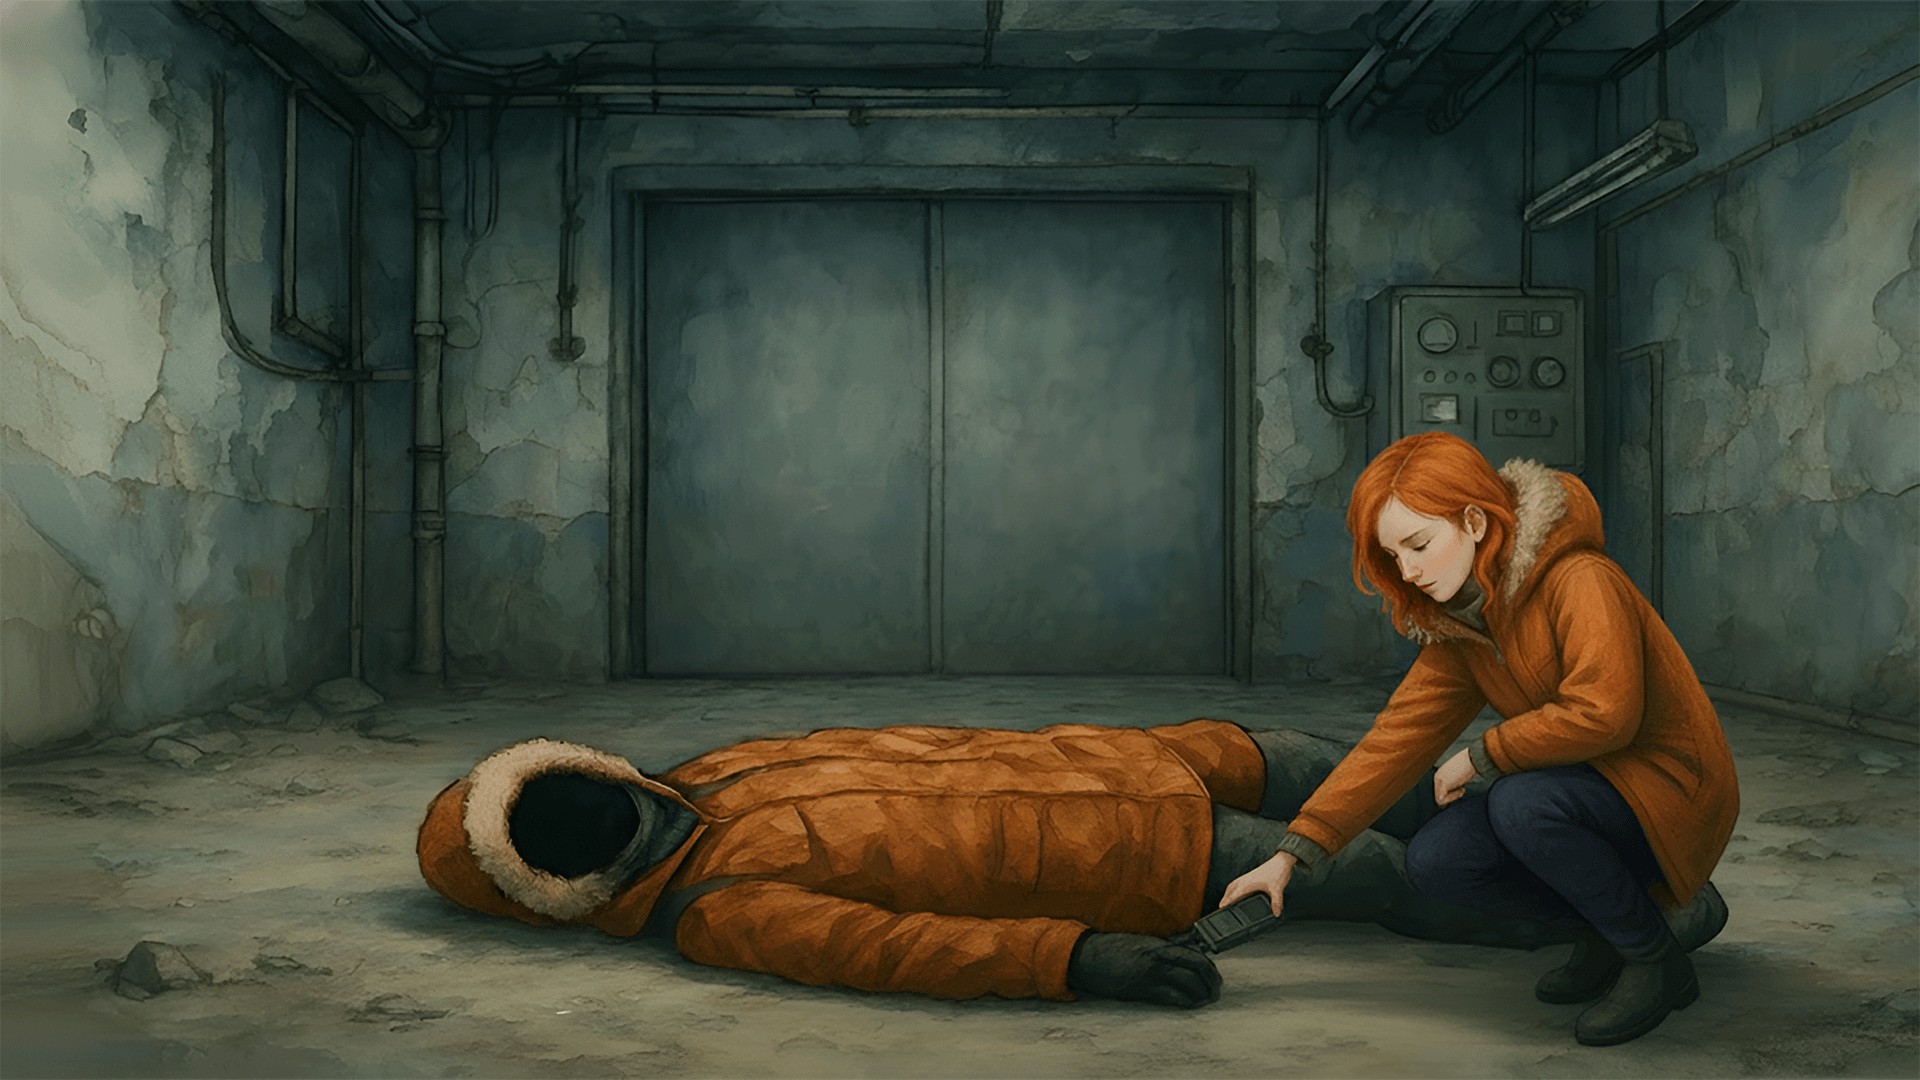
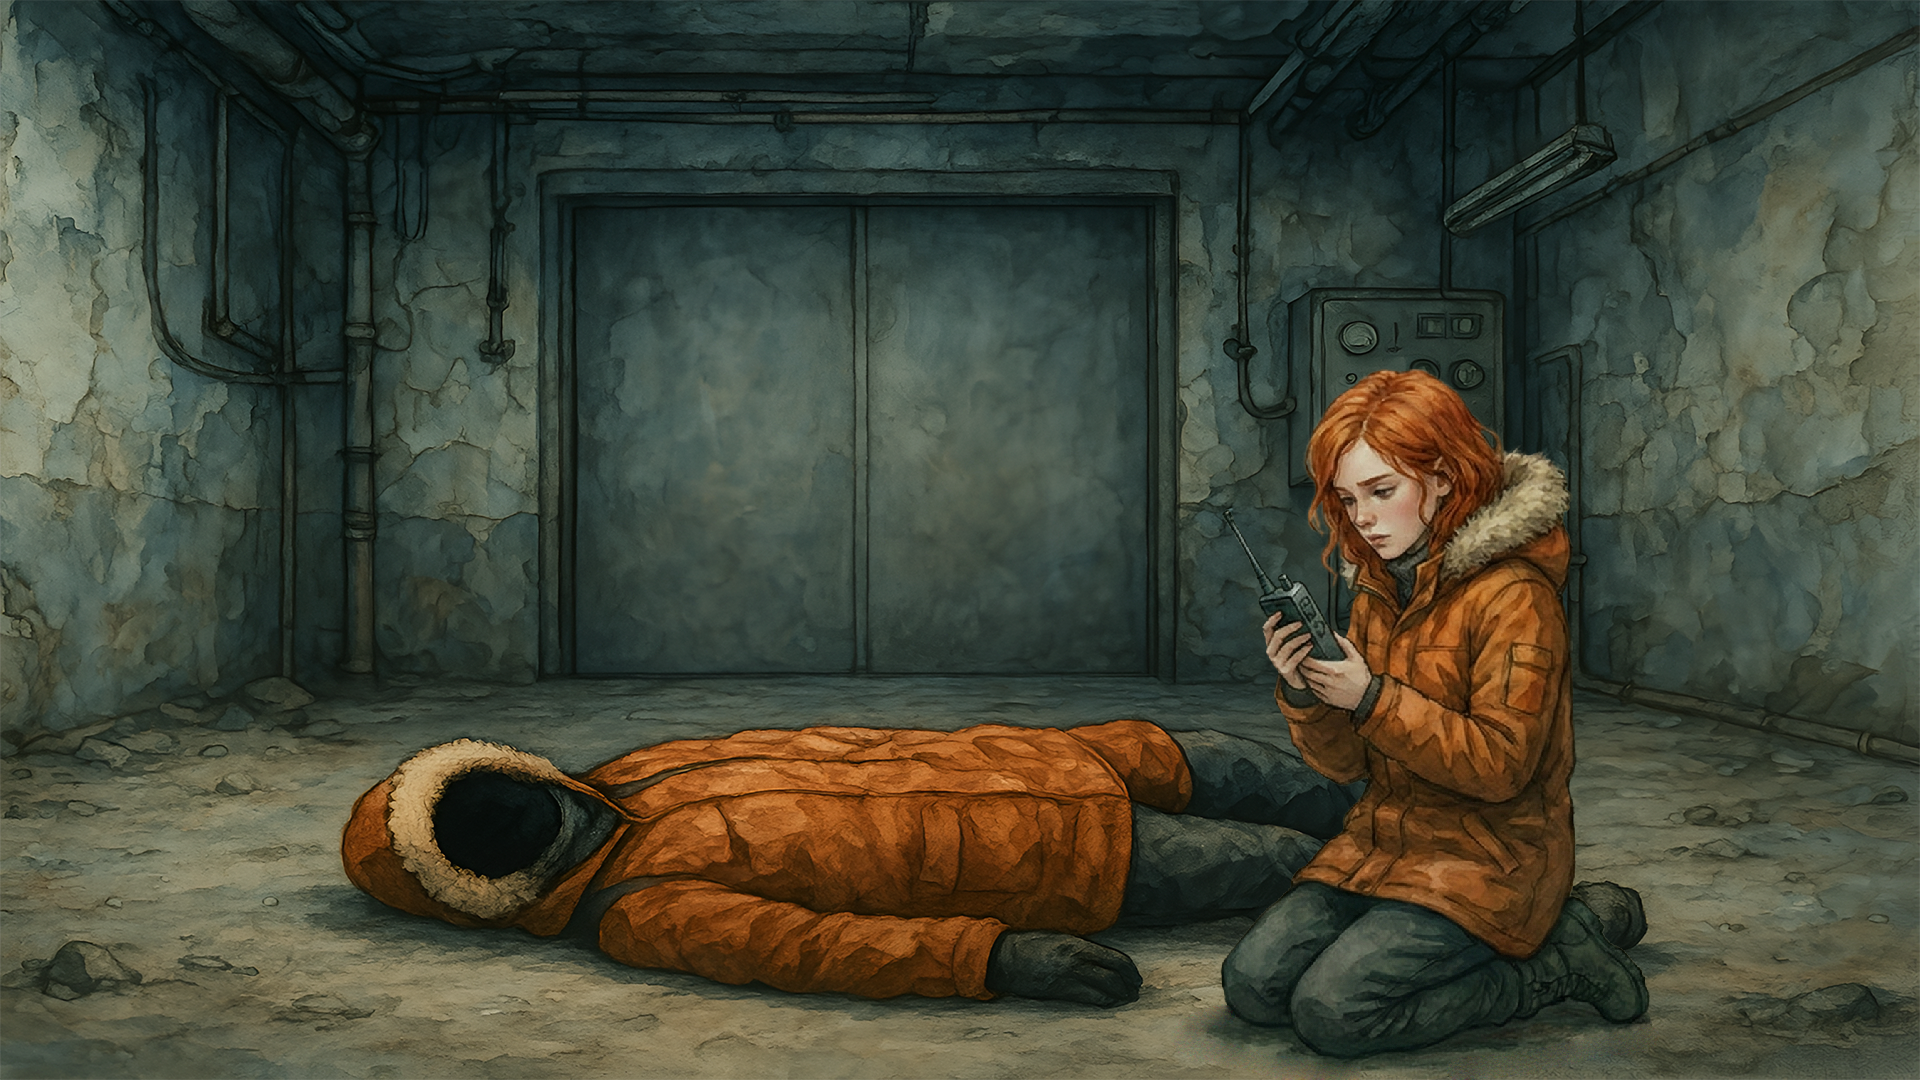
Modificados fades varios, cambiodos algunos fondos

diff --git a/Artica-7/game/clases/final_alternativo.py b/Artica-7/game/clases/final_alternativo.py
@@ -2,7 +2,7 @@ from .mensaje_final import MensajeFinal
 
 class FinalAlternativo(MensajeFinal):
     def __init__(self):
-        super().__init__("FINAL BUENO")
+        super().__init__("FINAL ALTERNATIVO")
 
     def obtener_mensaje(self): #Mensaje que se muestra si se hace el final bueno.
         return (
